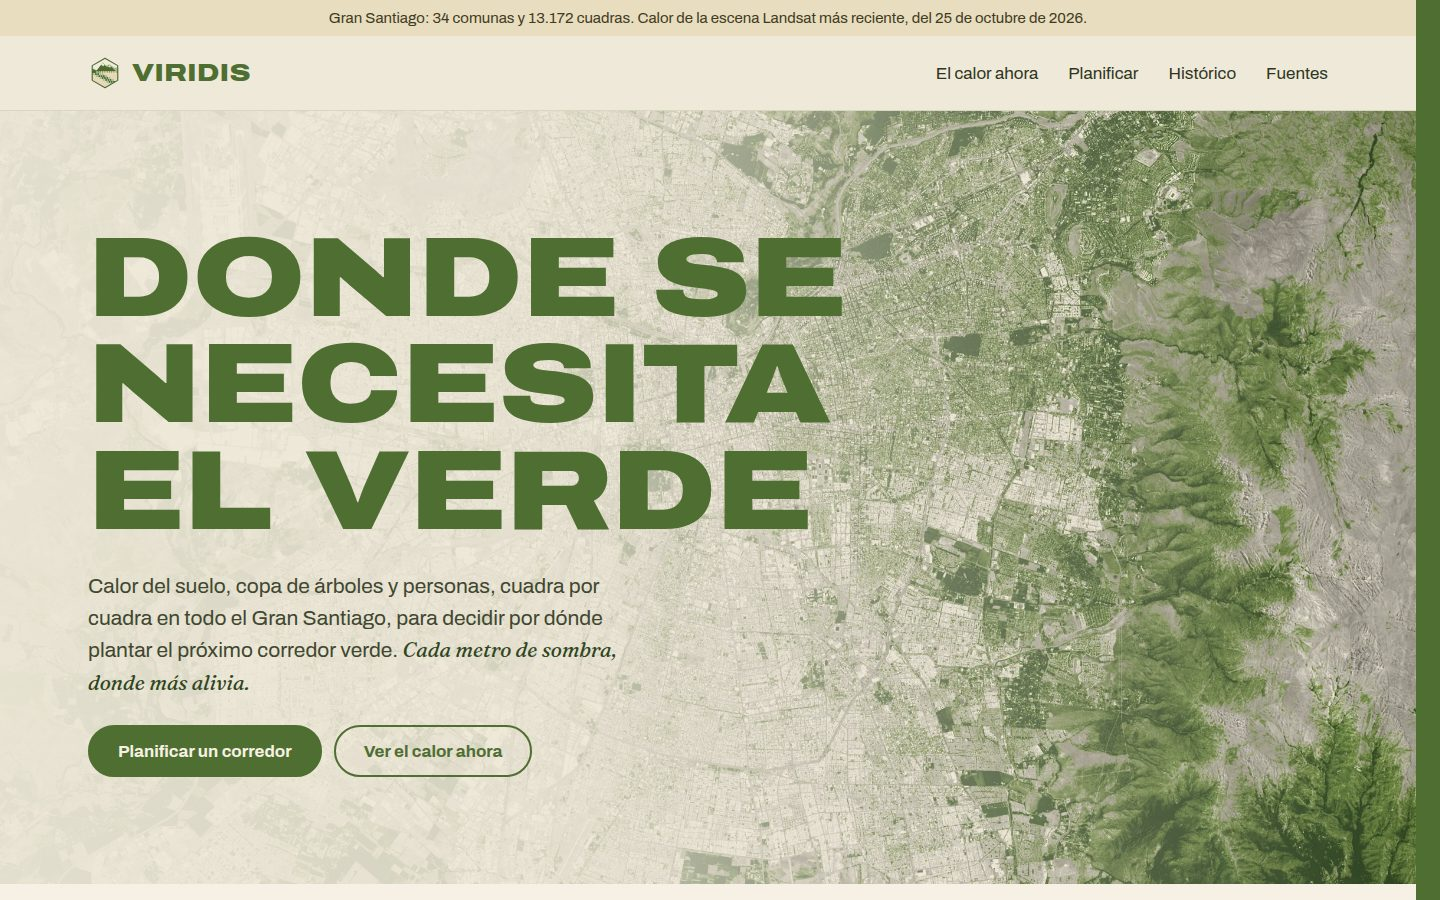
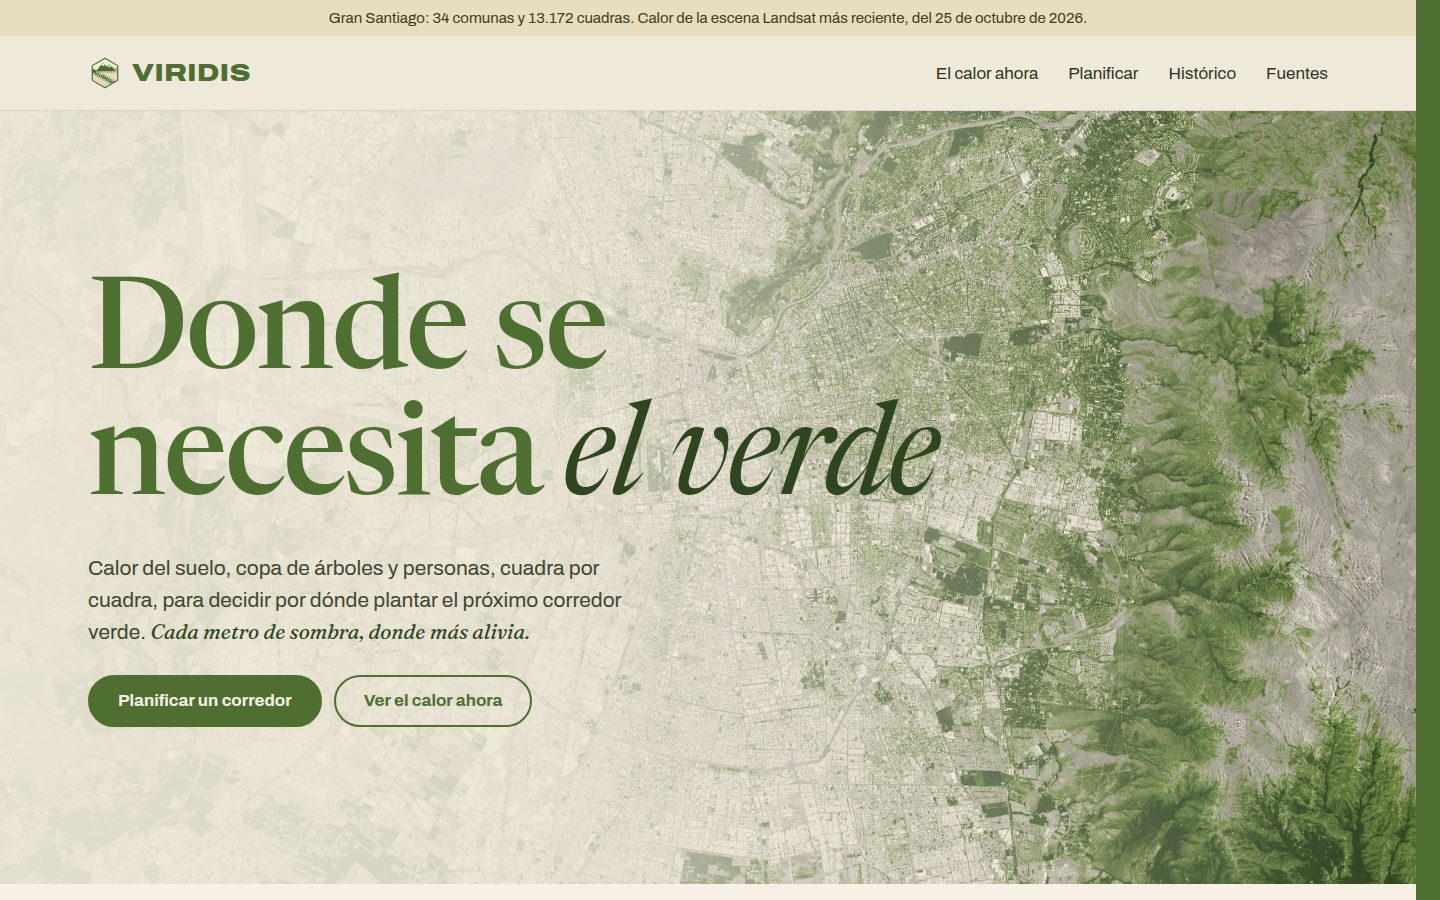
Titular en Newsreader (propuesta A), con "el verde" en cursiva

Changed region(s): [[0.0625, 0.2489, 0.6562, 0.5911], [0.0625, 0.6222, 0.4375, 0.8711]]

diff --git a/web/app/layout.tsx b/web/app/layout.tsx
@@ -1,9 +1,10 @@
 import type { Metadata } from "next";
-import { Archivo, Fraunces } from "next/font/google";
+import { Archivo, Fraunces, Newsreader } from "next/font/google";
 import "maplibre-gl/dist/maplibre-gl.css";
 import "./globals.css";
 
 const archivo = Archivo({ subsets: ["latin"], axes: ["wdth"], variable: "--f-archivo", display: "swap" });
+const newsreader = Newsreader({ subsets: ["latin"], style: ["normal", "italic"], axes: ["opsz"], variable: "--f-newsreader", display: "swap" });
 const fraunces = Fraunces({ subsets: ["latin"], style: "italic", variable: "--f-fraunces", display: "swap" });
 
 export const metadata: Metadata = {
@@ -13,7 +14,7 @@ export const metadata: Metadata = {
 
 export default function RootLayout({ children }: { children: React.ReactNode }) {
   return (
-    <html lang="es-CL" className={`${archivo.variable} ${fraunces.variable}`} suppressHydrationWarning>
+    <html lang="es-CL" className={`${archivo.variable} ${fraunces.variable} ${newsreader.variable}`} suppressHydrationWarning>
       <head>
         {/* Las animaciones de entrada solo se activan si corre JS; sin JS todo queda visible. Si React no
             alcanza a hidratar (un chunk que no carga, un navegador viejo), a los 2,5 s se quita .js y todo se ve. */}

diff --git a/web/app/globals.css b/web/app/globals.css
@@ -58,7 +58,9 @@ section[id], footer[id] { scroll-margin-top: 16px; }
   background: linear-gradient(90deg, rgba(239, 233, 218, 0.94) 0%, rgba(239, 233, 218, 0.86) 38%, rgba(239, 233, 218, 0.35) 68%, rgba(239, 233, 218, 0.05) 100%); }
 .b-hero .b-in { width: 100%; }
 .b-hero .b-in { padding-block: 72px 64px; display: flex; flex-direction: column; gap: 26px; position: relative; }
-.b-hero h1 { margin: 0; max-width: 11ch; font-family: var(--f-display); font-weight: 900; font-stretch: 125%; font-size: clamp(48px, 8vw, 112px); line-height: 0.95; color: var(--oliva); text-transform: uppercase; text-wrap: balance; }
+/* Titular en Newsreader (propuesta A): serif editorial, con "el verde" en cursiva. */
+.b-hero h1 { margin: 0; max-width: 12ch; font-family: var(--f-newsreader), Georgia, serif; font-optical-sizing: auto; font-weight: 500; font-size: clamp(54px, 9vw, 128px); line-height: 0.98; letter-spacing: -0.025em; color: var(--oliva); text-wrap: balance; }
+.b-hero h1 em { font-family: inherit; font-style: italic; font-weight: 400; color: var(--oliva-osc); }
 .b-hero p { margin: 0; max-width: 46ch; font-size: 21px; line-height: 1.5; color: var(--texto2); }
 .b-hero em { font-family: var(--f-it); font-style: italic; color: var(--oliva-osc); }
 

diff --git a/web/components/Pagina.tsx b/web/components/Pagina.tsx
@@ -82,7 +82,7 @@ export default function Pagina({ serie }: { serie: Serie }) {
           sizes="100vw" alt="" aria-hidden="true" fetchPriority="high" decoding="async" />
         <div className="velo" aria-hidden="true" />
         <div className="b-in">
-          <h1>Donde se necesita el verde</h1>
+          <h1>Donde se necesita <em>el verde</em></h1>
           <p>Calor del suelo, copa de árboles y personas, cuadra por cuadra, para decidir por dónde plantar el próximo corredor verde. <em>Cada metro de sombra, donde más alivia.</em></p>
           <div className="grupo" style={{ gap: 12 }}>
             <a className="pill llena grande" href="#planificar">Planificar un corredor</a>
